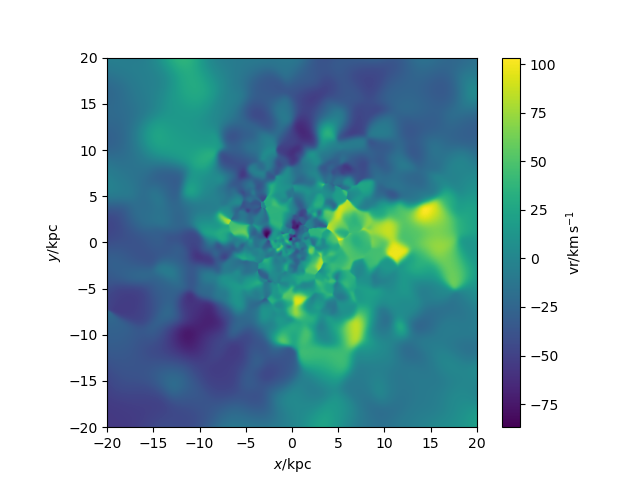
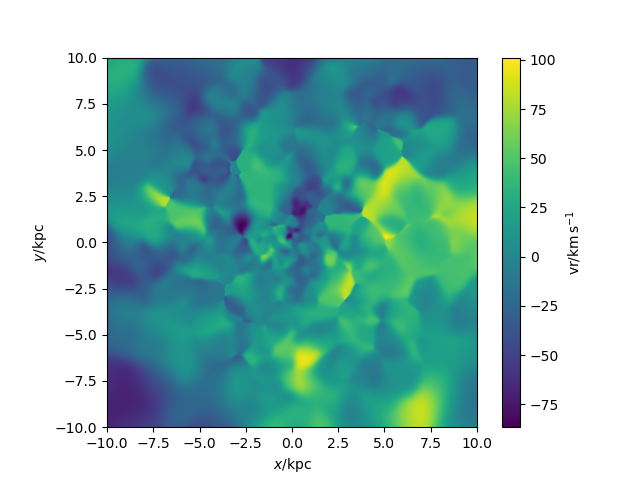
axis updated

diff --git a/r372/galaxy372_iongas.py b/r372/galaxy372_iongas.py
@@ -13,13 +13,15 @@ s=pynbody.load('/mnt/data0/jillian/gguaman/r372/cosmo25p.768sg1bwK1BHe75.007779'
 s.physical_units()
 
 #centering halo
-pynbody.analysis.angmom.faceon(s)
+#pynbody.analysis.angmom.faceon(s)
+pynbody.analysis.angmom.sideon(s)
 
 #filter to only use ionised gas
 GasFilter = pynbody.filt.HighPass('temp','15848 K')
 
 #creating image to show velocity of ionised gas
-sph.image(s.g[GasFilter],qty="vr",vmin=-20,width=40,denoise=True,approximate_fast=False,log=False)
+sph.image(s.g[GasFilter],qty="vr",vmin=-20,width=20,denoise=True,approximate_fast=False,log=False)
 
 #plt.show()
-plt.savefig("galaxy372_iongas.png")
+#plt.savefig("galaxy372_iongas.png")
+plt.savefig("galaxy372_iongas(side).png")

diff --git a/r372/galaxy372_velocity.py b/r372/galaxy372_velocity.py
@@ -12,10 +12,12 @@ s=pynbody.load('/mnt/data0/jillian/gguaman/r372/cosmo25p.768sg1bwK1BHe75.007779'
 s.physical_units()
 
 #centering halo
-pynbody.analysis.angmom.faceon(s)
+#pynbody.analysis.angmom.faceon(s)
+pynbody.analysis.angmom.sideon(s)
 
 #creating gas velocity plot
-sph.image(s.g,qty="vr",width=40,denoise=True,approximate_fast=False,log=False)
+sph.image(s.g,qty="vr",width=20,denoise=True,approximate_fast=False,log=False)
 
 #plt.show()
-plt.savefig("galaxy372_velocity.png")
+#plt.savefig("galaxy372_velocity.png")
+plt.savefig("galaxy372_velocity(side).png")

diff --git a/r372/galaxy372_temp.py b/r372/galaxy372_temp.py
@@ -12,10 +12,12 @@ s=pynbody.load('/mnt/data0/jillian/gguaman/r372/cosmo25p.768sg1bwK1BHe75.007779'
 s.physical_units()
 
 #centering halo
-pynbody.analysis.angmom.faceon(s)
+#pynbody.analysis.angmom.faceon(s)
+pynbody.analysis.angmom.sideon(s)
 
 #creating slice to show gas temp
-sph.image(s.g,qty="temp",width=40,denoise=True,approximate_fast=False,log=True)
+sph.image(s.g,qty="temp",width=20,denoise=True,approximate_fast=False,log=True)
 
 #plt.show()
-plt.savefig("galaxy372_temp.png")
+#plt.savefig("galaxy372_temp.png")
+plt.savefig("galaxy372_temp(side).png")

diff --git a/r372/galaxy372_dens.py b/r372/galaxy372_dens.py
@@ -10,10 +10,12 @@ s=pynbody.load('/mnt/data0/jillian/gguaman/r372/cosmo25p.768sg1bwK1BHe75.007779'
 s.physical_units()
 
 #centering halo and aligning disk
-pynbody.analysis.angmom.faceon(s)
+#pynbody.analysis.angmom.faceon(s)
+pynbody.analysis.angmom.sideon(s)
 
 #creating gas density slice
-sph.image(s.g,qty="rho",units="g cm^-3",width=40)
+sph.image(s.g,qty="rho",units="g cm^-3",width=20)
 
 #plt.show()
-plt.savefig("galaxy372_dens.png")
+#plt.savefig("galaxy372_dens.png")
+plt.savefig("galaxy372_dens(side).png")

diff --git a/r372/galaxy372_stars.py b/r372/galaxy372_stars.py
@@ -10,10 +10,12 @@ s=pynbody.load('/mnt/data0/jillian/gguaman/r372/cosmo25p.768sg1bwK1BHe75.007779'
 s.physical_units()
 
 #centering halo
-pynbody.analysis.angmom.faceon(s)
+#pynbody.analysis.angmom.faceon(s)
+pynbody.analysis.angmom.sideon(s)
 
 #creating image using default bands(i,v,u)
-pynbody.plot.stars.render(s,width='12 kpc')
+pynbody.plot.stars.render(s,width='20 kpc')
 
 #plt.show()
-plt.savefig("galaxy372_stars.png")
+#plt.savefig("galaxy372_stars.png")
+plt.savefig("galaxy372_stars(side).png")
